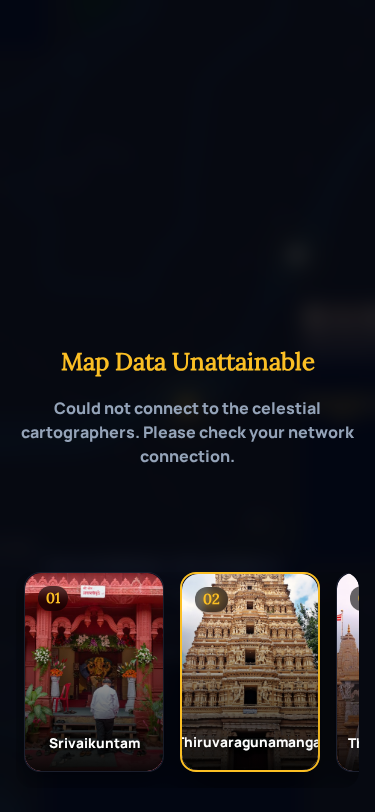
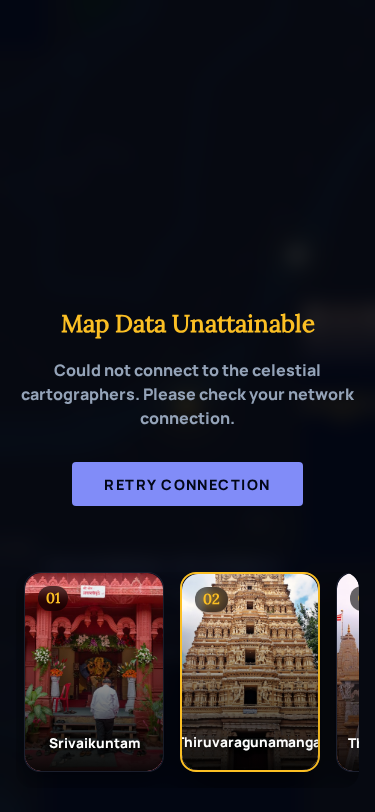
fix: Enhance Accessibility, Security, and UX
Resolved critical accessibility issues by adding alt text to images, using semantic buttons for navigation, and implementing a focus trap for the modal.

Hardened security by refactoring the list generation to use `createElement` and `textContent` instead of `innerHTML`, mitigating XSS vulnerabilities.

Improved user experience by adding a "Retry" button for map data loading failures and refining image loading error handling.

Changed region(s): [[0.0587, 0.3695, 0.9387, 0.6466]]

diff --git a/index.html b/index.html
@@ -330,16 +330,34 @@
             text-shadow: 0 0 20px rgba(251, 191, 36, 0.4);
         }
 
-        .temple-list { list-style: none; padding: 0 1.5rem; }
+        .temple-list {
+            display: flex;
+            flex-direction: column;
+            padding: 0 1.5rem;
+            gap: 0.8rem;
+        }
 
         /* Desktop List Item Style */
         .temple-item {
+            /* --- Button Reset --- */
+            border: none;
+            background: transparent;
+            font: inherit;
+            color: inherit;
+            text-align: inherit;
+            padding: 0;
+            margin: 0;
+            width: 100%;
+            -webkit-appearance: none;
+            appearance: none;
+
+            /* --- Original Styles --- */
             display: grid;
             grid-template-columns: 60px 1fr 4px;
             align-items: center;
             gap: 1rem;
             padding: 0.8rem 1rem;
-            margin-bottom: 0.8rem;
+            /* margin-bottom replaced by gap in parent */
             background: rgba(255,255,255,0.02);
             border: 1px solid rgba(255,255,255,0.03);
             border-radius: 12px;
@@ -705,6 +723,25 @@
             .map-error-content p {
                 font-size: 1rem;
                 color: var(--color-text-secondary);
+                margin-bottom: 2rem;
+            }
+            .retry-button {
+                font-family: var(--font-body);
+                font-size: 0.9rem;
+                font-weight: 700;
+                color: var(--color-bg-deep);
+                background: var(--color-secondary);
+                border: none;
+                padding: 0.8rem 2rem;
+                border-radius: 4px;
+                cursor: pointer;
+                text-transform: uppercase;
+                letter-spacing: 0.1em;
+                transition: all 0.3s;
+            }
+            .retry-button:hover {
+                background: #fff;
+                box-shadow: 0 0 20px rgba(255,255,255,0.3);
             }
 
             .intro-title { font-size: 2.2rem; margin: 0 1rem 1rem 1rem; }
@@ -728,10 +765,10 @@
         <button class="intro-button" id="intro-button">Begin the Journey</button>
     </div>
 
-    <div class="app-container" id="app-container">
+    <div class="app-container" id="app-container" aria-live="polite">
         <nav class="nav-panel">
             <h2 class="nav-header">The Constellation</h2>
-            <ul class="temple-list" id="temple-list"></ul>
+            <div class="temple-list" id="temple-list"></div>
         </nav>
         <main class="map-container">
             <div id="map"></div>
@@ -739,6 +776,7 @@
                 <div class="map-error-content">
                     <h3>Map Data Unattainable</h3>
                     <p>Could not connect to the celestial cartographers. Please check your network connection.</p>
+                    <button class="retry-button" id="retry-map-button">Retry Connection</button>
                 </div>
             </div>
             <div class="info-card" id="info-card" aria-live="polite">
@@ -789,14 +827,25 @@
             let markers = [];
             let templeNavItems = [];
             let activeTempleId = null; // SINGLE SOURCE OF TRUTH
+            let lastFocusedElement = null;
+            let tileLayer;
 
             // --- Core Functions ---
             
             // Centralized State Mutator: The only way to change the active temple
             function setActiveTemple(id) {
                 if (id === activeTempleId) return; // Do nothing if already active
+
+                if (id !== null) {
+                    lastFocusedElement = document.activeElement;
+                }
+
                 activeTempleId = id;
                 render();
+
+                if (activeTempleId === null && lastFocusedElement) {
+                    lastFocusedElement.focus();
+                }
             }
 
             // Declarative Render Function: Updates the entire UI based on the current state
@@ -824,7 +873,7 @@
                     const imgEl = document.getElementById('info-card-image');
                     imgEl.style.display = 'block';
                     imgEl.src = temple.image;
-                    imgEl.alt = temple.name;
+                    imgEl.alt = `Architectural view of ${temple.name}`;
                     imgEl.onerror = function() { this.style.display = 'none'; };
 
                     document.getElementById('info-card-title').textContent = temple.name;
@@ -834,6 +883,11 @@
                     document.getElementById('info-card-description').textContent = temple.description;
                     infoCard.classList.add('visible');
                     
+                    // Focus management
+                    infoCard.addEventListener('transitionend', () => {
+                        document.getElementById('info-card-close-btn').focus();
+                    }, { once: true });
+
                     // Fly map to location
                     map.flyTo(temple.coords, 15, { animate: true, duration: 1.5 });
 
@@ -846,7 +900,7 @@
             function initMap() {
                 const mapErrorOverlay = document.getElementById('map-error-overlay');
                 map = L.map('map', { center: [8.64, 77.94], zoom: 12, zoomControl: false });
-                const tileLayer = L.tileLayer('https://{s}.tile.openstreetmap.org/{z}/{x}/{y}.png', {
+                tileLayer = L.tileLayer('https://{s}.tile.openstreetmap.org/{z}/{x}/{y}.png', {
                     attribution: '&copy; <a href="https://www.openstreetmap.org/copyright">OpenStreetMap</a> contributors',
                     subdomains: 'abcd',
                     minZoom: 1,
@@ -876,38 +930,60 @@
 
                 templeData.forEach((temple, index) => {
                     // Create Nav Item (Enhanced Structure for Cards/List)
-                    const li = document.createElement('li');
-                    li.className = 'temple-item';
-                    li.setAttribute('role', 'button');
-                    li.setAttribute('tabindex', '0');
-                    li.setAttribute('aria-label', `Select ${temple.name}`);
+                    const button = document.createElement('button');
+                    button.className = 'temple-item';
+                    button.setAttribute('aria-label', `Select ${temple.name}`);
 
                     // Staggered Entry Animation
-                    li.style.opacity = '0';
-                    li.style.animation = `list-enter 0.6s var(--ease-out-quint) ${index * 0.08 + 0.2}s forwards`;
+                    button.style.opacity = '0';
+                    button.style.animation = `list-enter 0.6s var(--ease-out-quint) ${index * 0.08 + 0.2}s forwards`;
 
-                    li.innerHTML = `
-                        <div class="temple-card-bg">
-                            <img src="${temple.image}" alt="Image of ${temple.name}" loading="lazy" onerror="this.closest('li').style.display='none'">
-                            <div class="temple-card-overlay"></div>
-                        </div>
-                        <div class="temple-content">
-                            <span class="temple-index">${String(index + 1).padStart(2, '0')}</span>
-                            <div class="temple-info">
-                                <span class="temple-name-en">${temple.name}</span>
-                                <span class="temple-name-ta">${temple.tamilName}</span>
-                            </div>
-                        </div>
-                        <div class="active-indicator"></div>
-                    `;
+                    // --- Secure DOM Creation (prevents XSS) ---
+                    const cardBg = document.createElement('div');
+                    cardBg.className = 'temple-card-bg';
 
-                    li.addEventListener('click', () => setActiveTemple(temple.id));
-                    li.addEventListener('keypress', (e) => {
-                        if (e.key === 'Enter' || e.key === ' ') {
-                            setActiveTemple(temple.id);
-                        }
-                    });
-                    fragment.appendChild(li);
+                    const img = document.createElement('img');
+                    img.src = temple.image;
+                    img.alt = `Image of ${temple.name}`;
+                    img.loading = 'lazy';
+                    img.onerror = function() { this.style.display = 'none'; };
+                    cardBg.appendChild(img);
+
+                    const overlay = document.createElement('div');
+                    overlay.className = 'temple-card-overlay';
+                    cardBg.appendChild(overlay);
+
+                    const content = document.createElement('div');
+                    content.className = 'temple-content';
+
+                    const indexSpan = document.createElement('span');
+                    indexSpan.className = 'temple-index';
+                    indexSpan.textContent = String(index + 1).padStart(2, '0');
+                    content.appendChild(indexSpan);
+
+                    const info = document.createElement('div');
+                    info.className = 'temple-info';
+
+                    const nameEn = document.createElement('span');
+                    nameEn.className = 'temple-name-en';
+                    nameEn.textContent = temple.name;
+                    info.appendChild(nameEn);
+
+                    const nameTa = document.createElement('span');
+                    nameTa.className = 'temple-name-ta';
+                    nameTa.textContent = temple.tamilName;
+                    info.appendChild(nameTa);
+
+                    content.appendChild(info);
+
+                    const indicator = document.createElement('div');
+                    indicator.className = 'active-indicator';
+
+                    button.append(cardBg, content, indicator);
+                    // --- End Secure DOM Creation ---
+
+                    button.addEventListener('click', () => setActiveTemple(temple.id));
+                    fragment.appendChild(button);
 
                     // Create Map Marker
                     const marker = L.marker(temple.coords, { icon: customIcon }).addTo(map);
@@ -937,8 +1013,43 @@
             });
             
             infoCardCloseBtn.addEventListener('click', () => {
-                setActiveTemple(null); // BUG FIX: Allows closing the info card
+                setActiveTemple(null);
             });
+
+            infoCard.addEventListener('keydown', handleFocusTrap);
+
+            function handleFocusTrap(e) {
+                if (e.key !== 'Tab') return;
+
+                const focusableElements = 'button, [href], input, select, textarea, [tabindex]:not([tabindex="-1"])';
+                const focusableContent = infoCard.querySelectorAll(focusableElements);
+                const firstFocusable = focusableContent[0];
+                const lastFocusable = focusableContent[focusableContent.length - 1];
+
+                if (e.shiftKey) { // if shift key pressed for shift + tab combination
+                    if (document.activeElement === firstFocusable) {
+                        lastFocusable.focus(); // move focus to the last focusable element
+                        e.preventDefault();
+                    }
+                } else { // if tab key is pressed
+                    if (document.activeElement === lastFocusable) { // if focused has reached to last focusable element
+                        firstFocusable.focus(); // move focus to the first focusable element
+                        e.preventDefault();
+                    }
+                }
+            }
+
+            function retryMapConnection() {
+                const mapErrorOverlay = document.getElementById('map-error-overlay');
+                mapErrorOverlay.classList.remove('visible');
+                if (tileLayer) {
+                    // Re-add layer to trigger reload
+                    tileLayer.remove();
+                    tileLayer.addTo(map);
+                }
+            }
+
+            document.getElementById('retry-map-button').addEventListener('click', retryMapConnection);
 
             // --- Initializer ---
             initMap();
